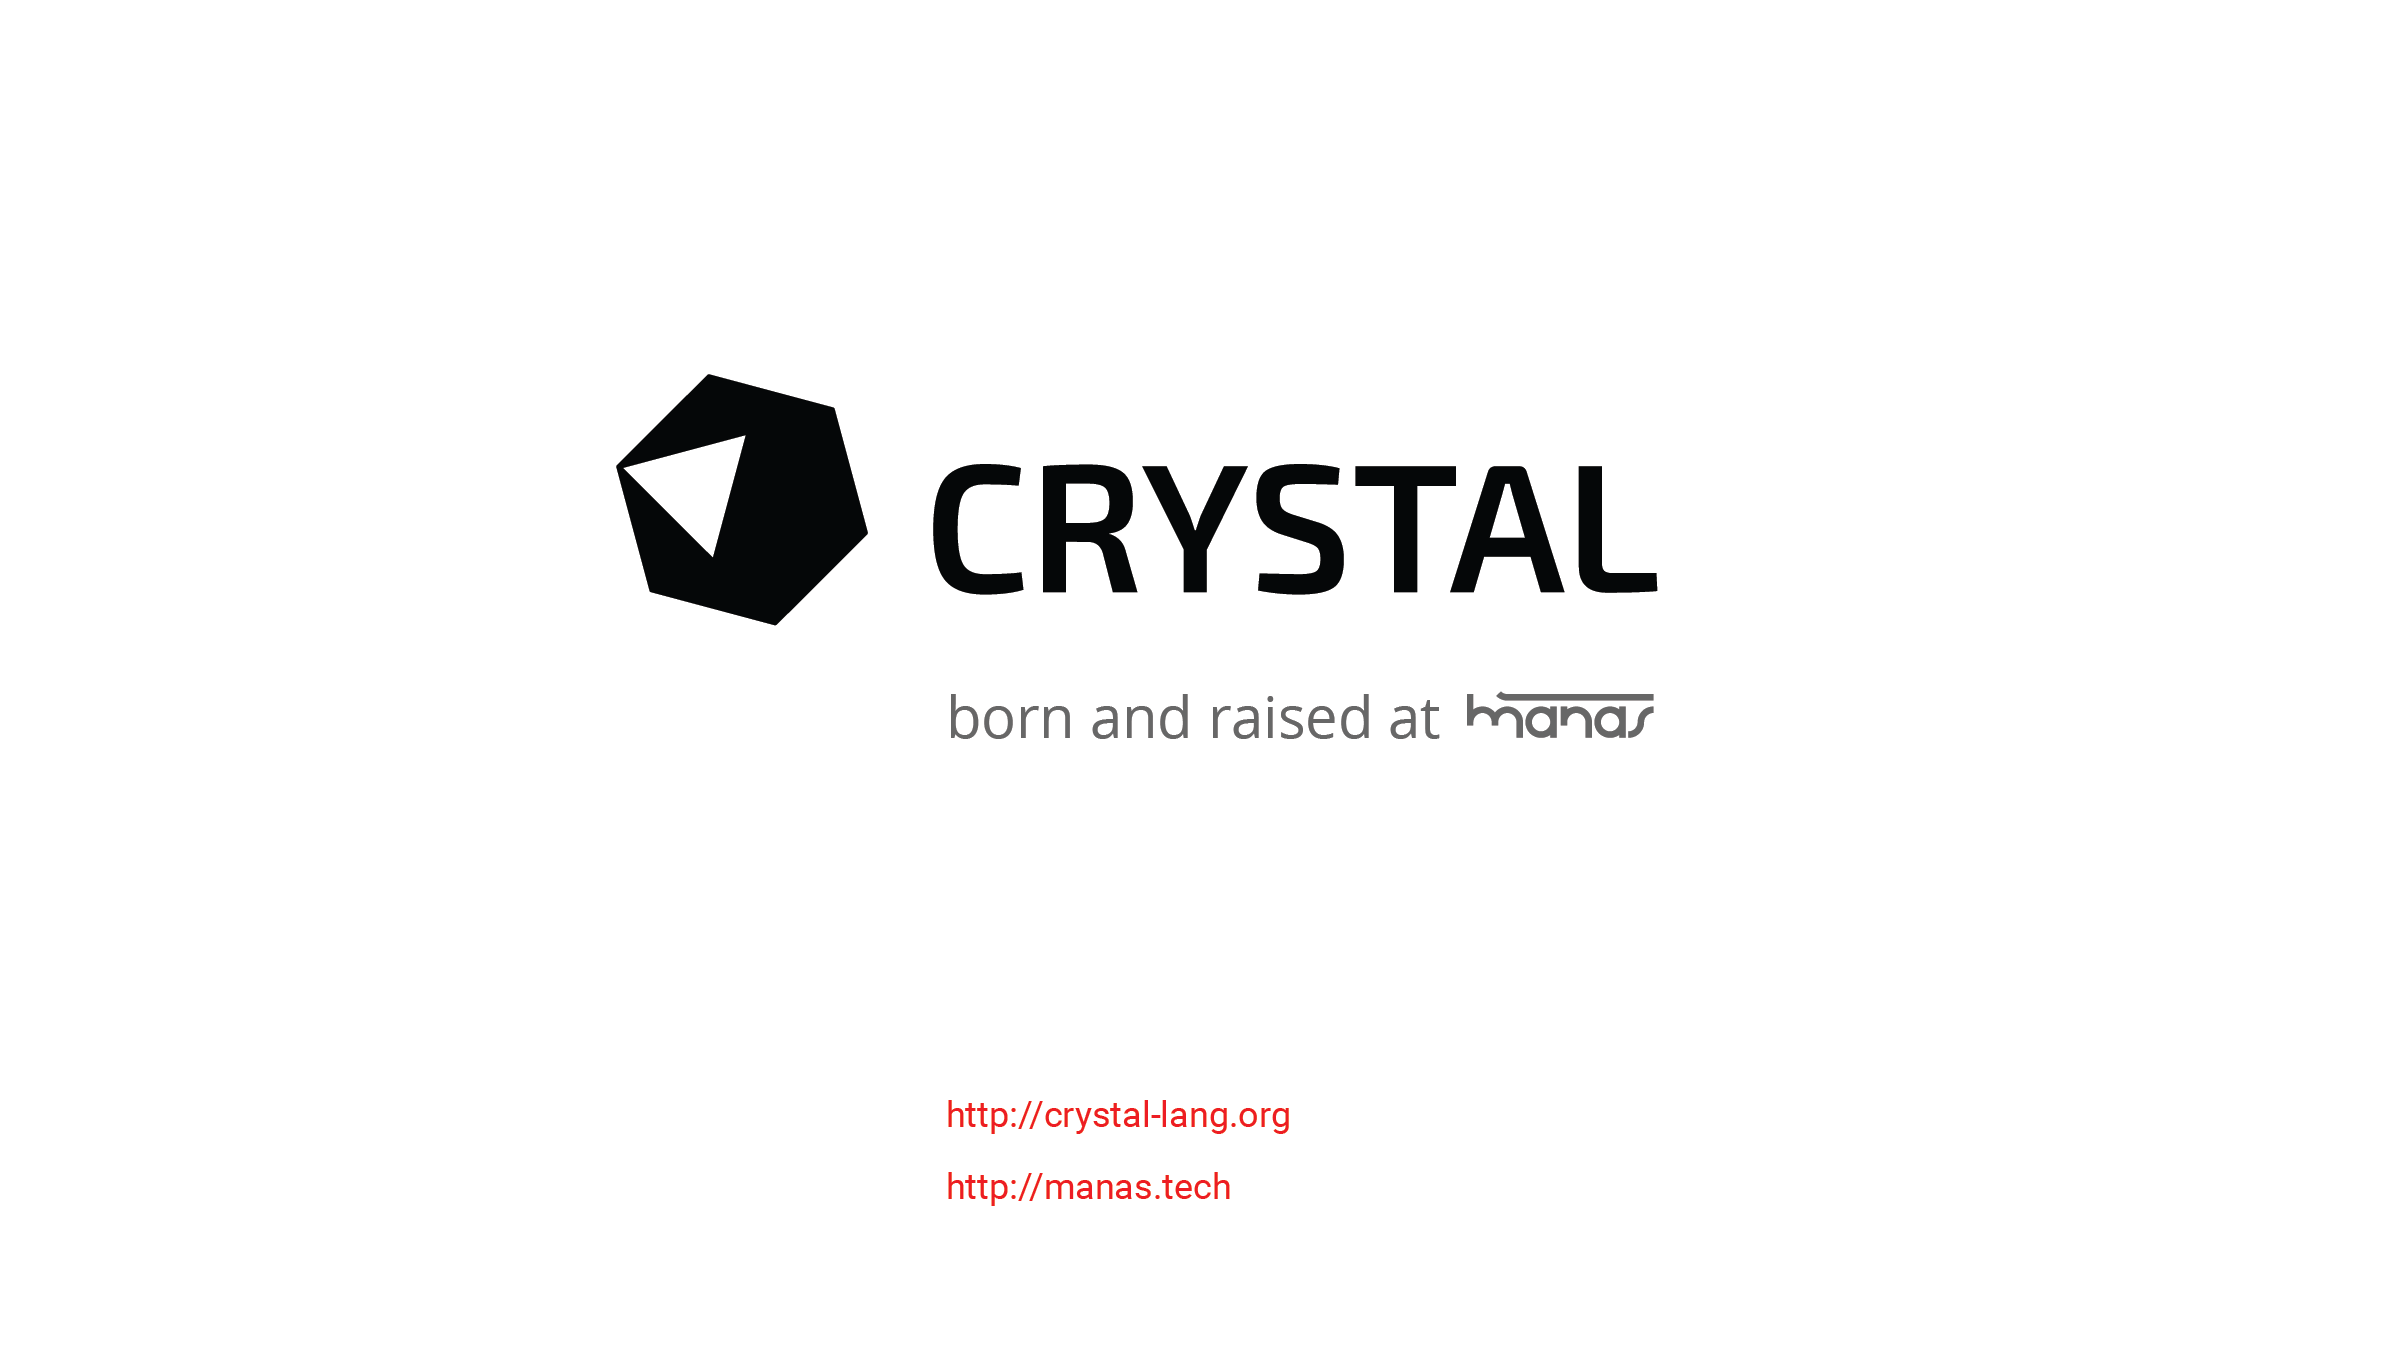
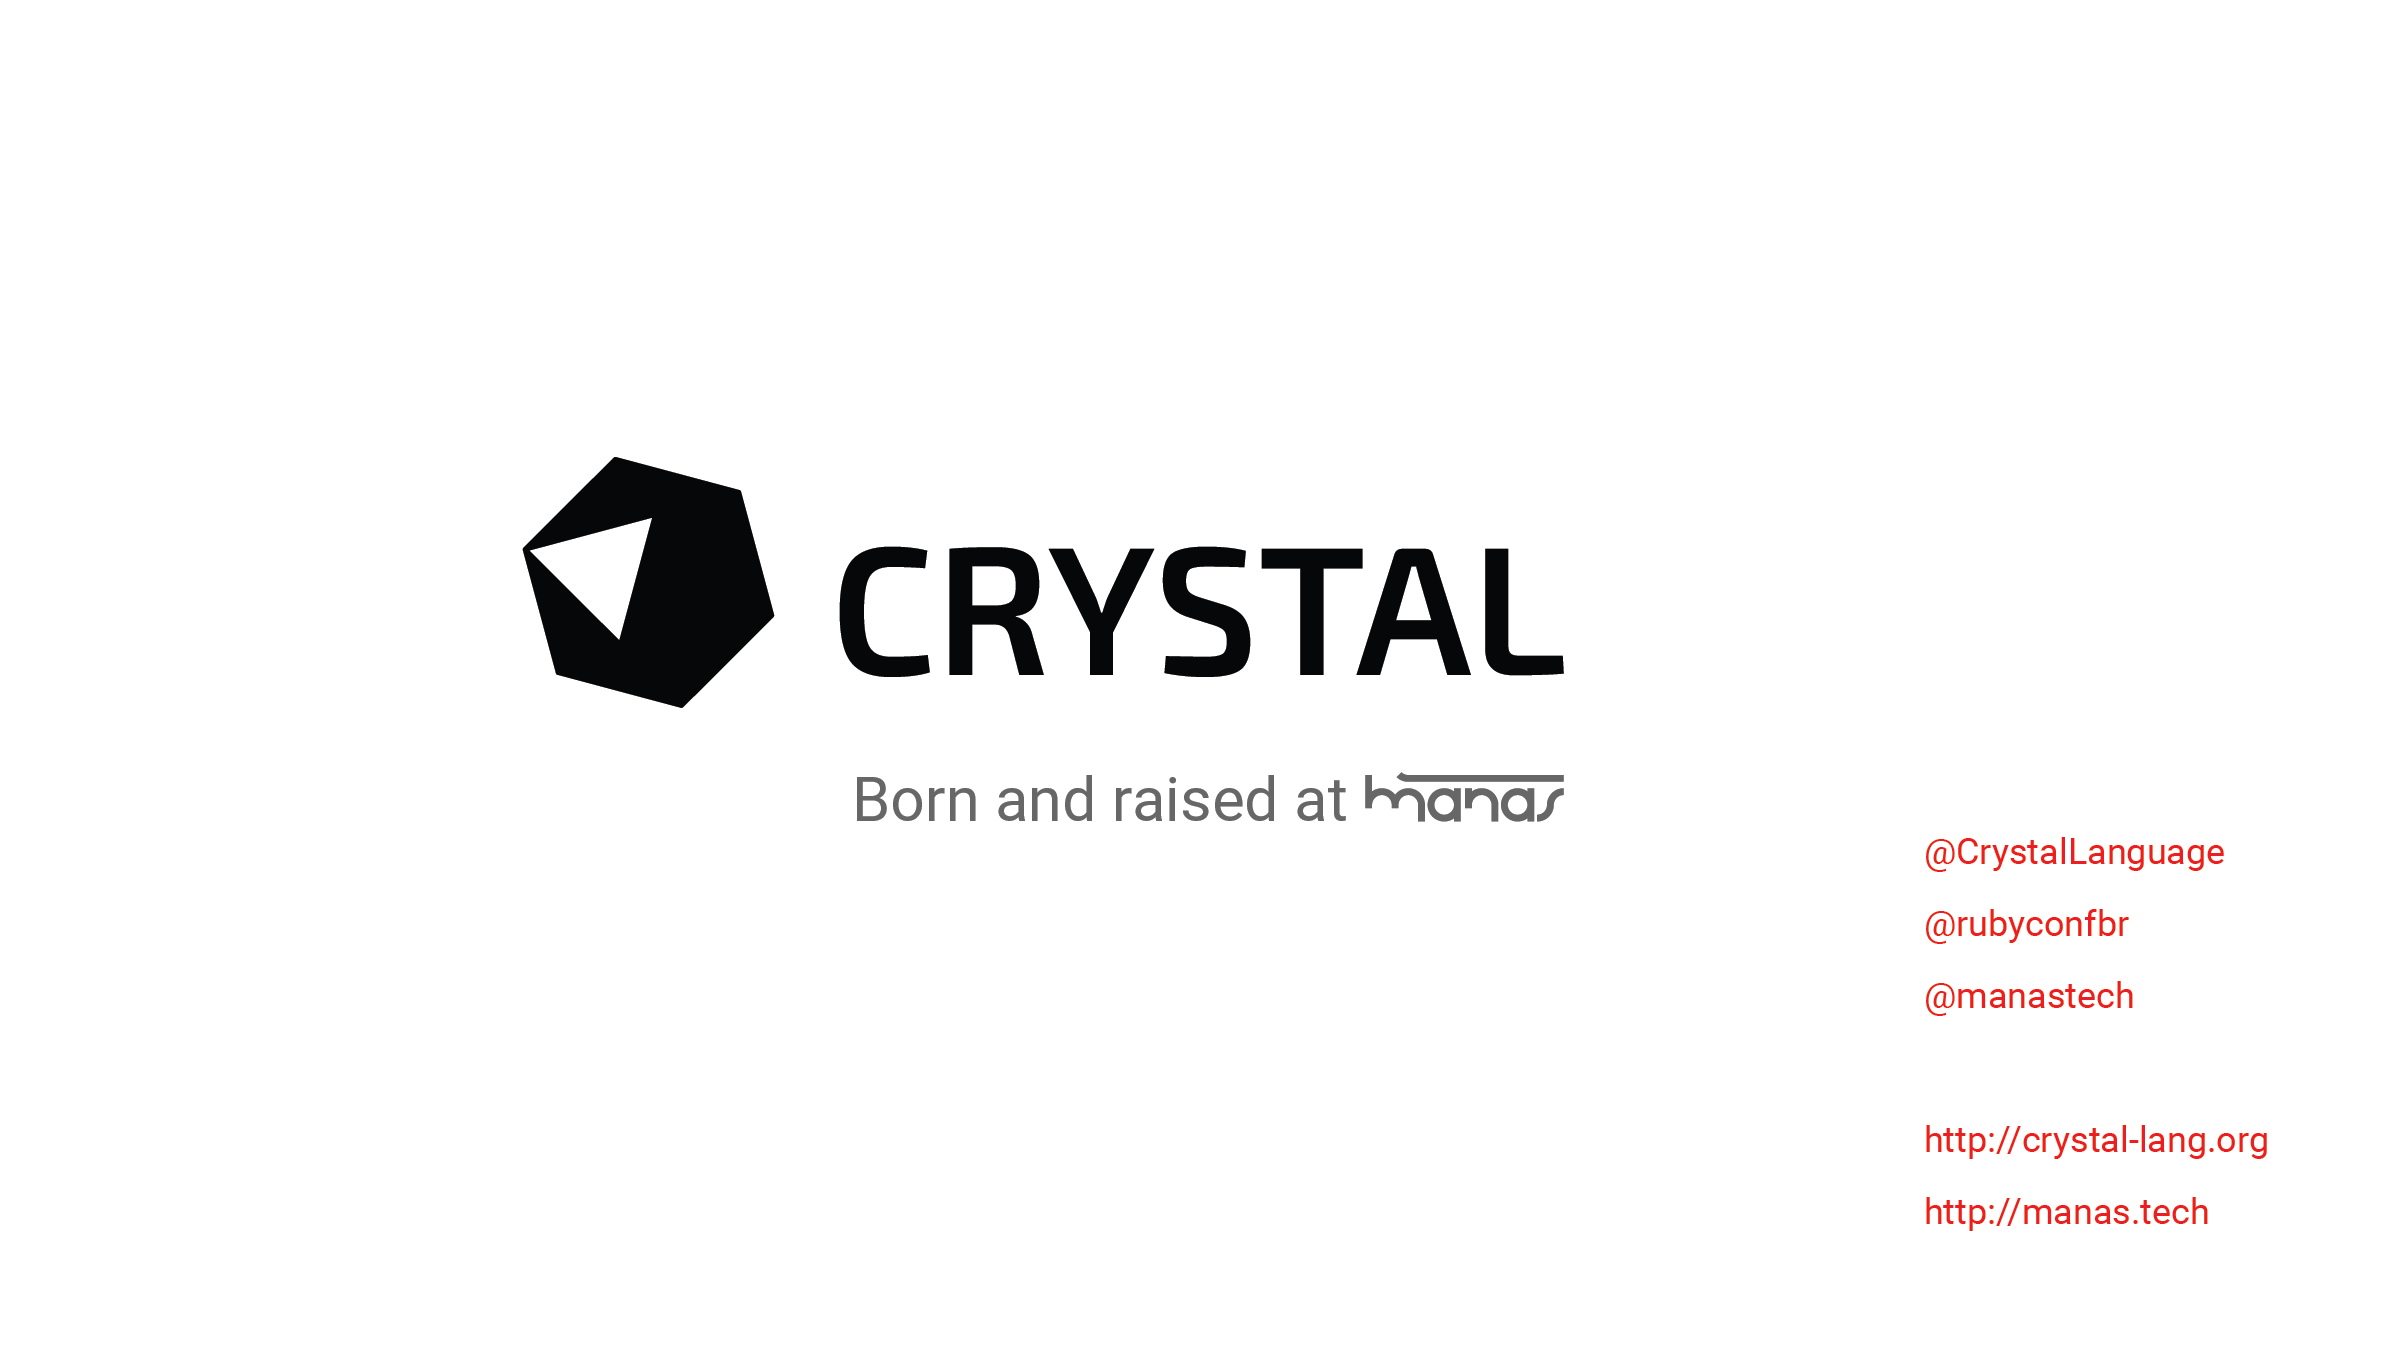
update cover, back. add sponsors

diff --git a/slides/011-sponsors.html b/slides/011-sponsors.html
@@ -1,0 +1,3 @@
+<section data-background-image="resources/images/sponsors.png">
+  <br/>
+</section>
